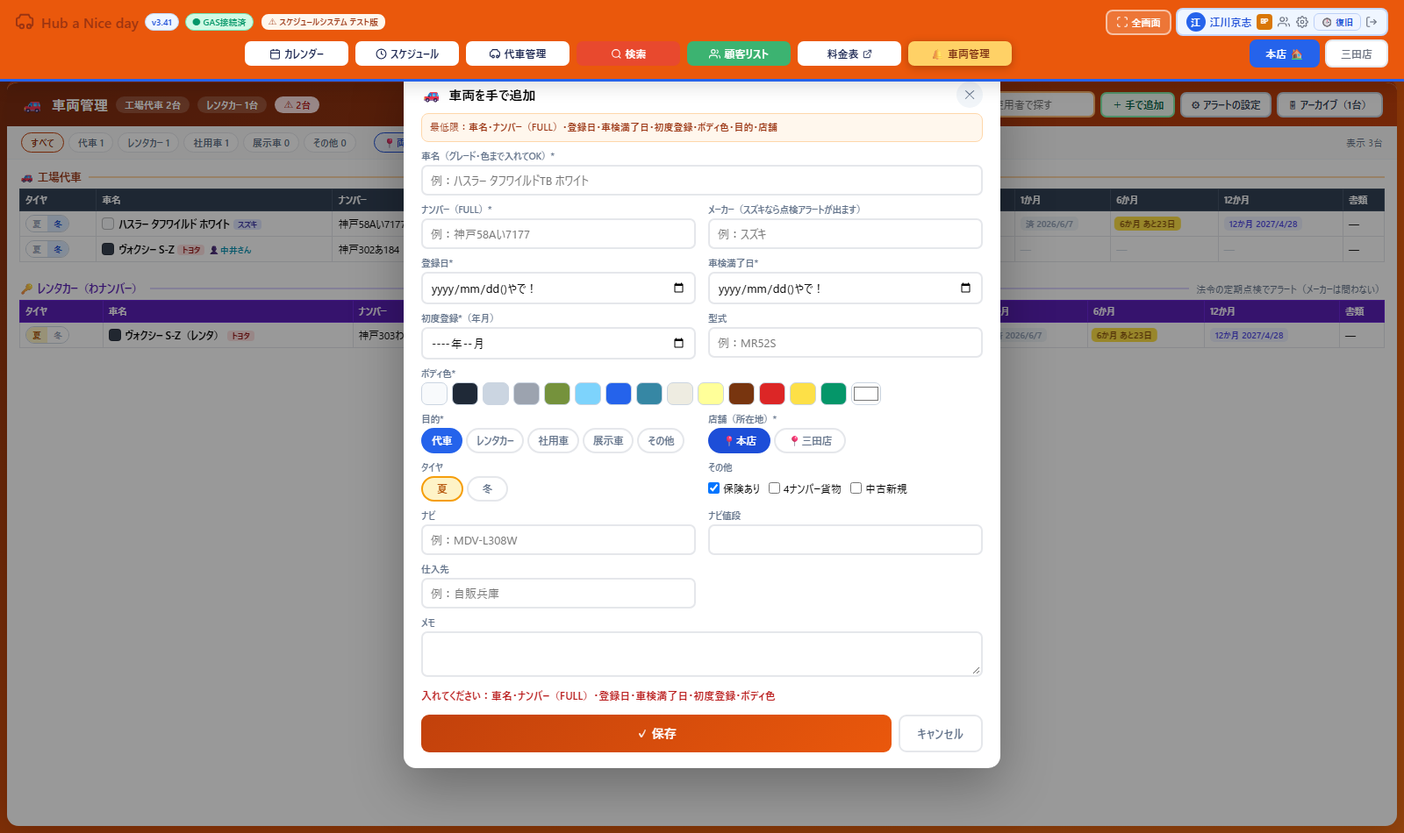
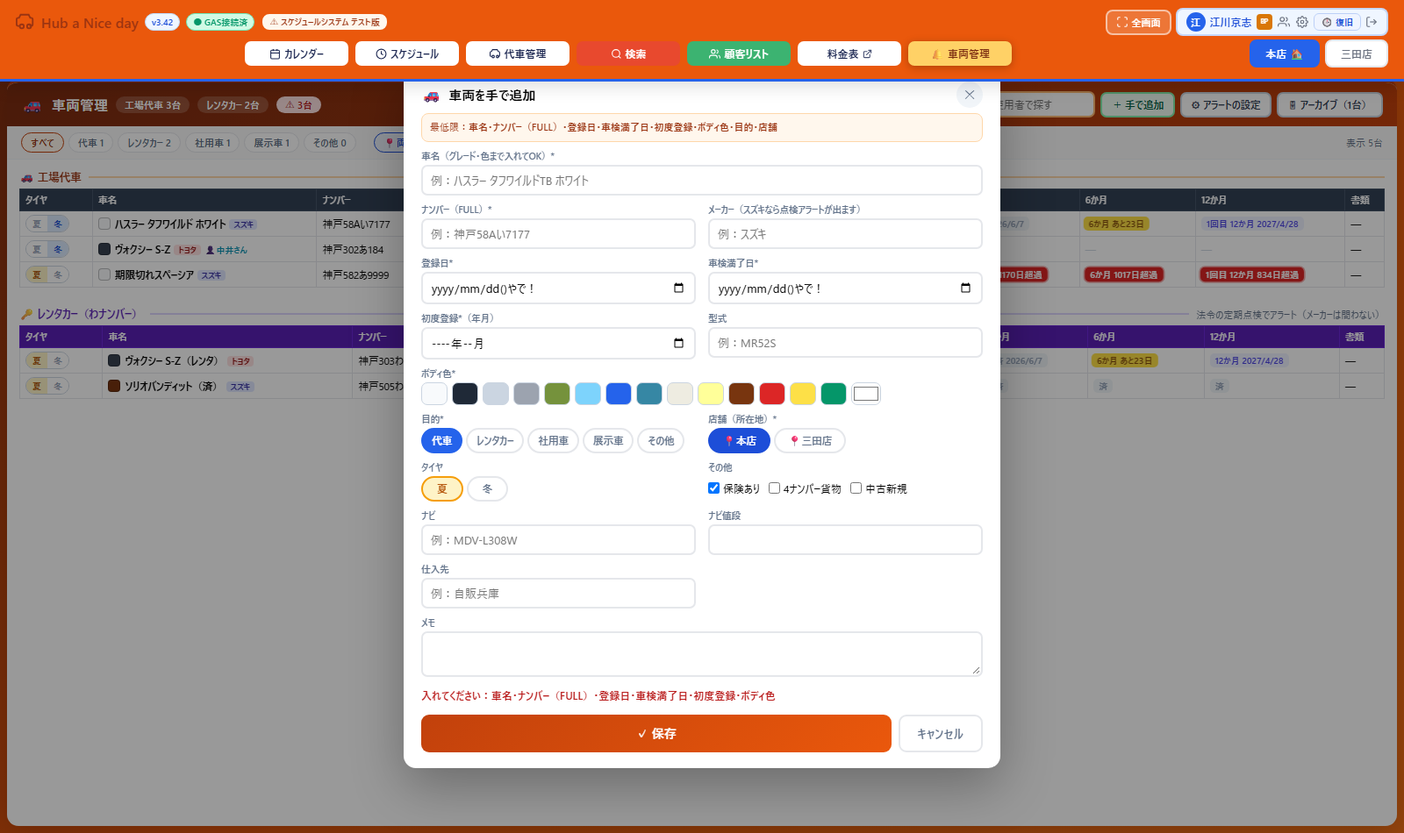
v3.43 車両管理v2の直し（ユーザー確認分）＋取り込みの不具合3件
画面：
- 車検満了の「○日超過」は出さない（残り日数のみ）。
- 保険の○×はセルの真ん中。×は濃い赤に白抜きで囲う。
- 点検は日付が分からない「済」も扱える（done:true）。
- 12か月点検は車検までに来る回数ぶん（乗用新車2回・4ナンバー1回）。
  「2回目」と表示し、済にすると次の回へ進む。
取り込み（fb_import_vehicles.js）：
- レンタカー区画の列ずれは7〜11だけだった（12=1か月・13=6か月がずれて
  タイヤ番号を点検日として取り込んでいた）。
- 先の日付は「予定」で未実施扱い（展示車の6か月点検が済に見えていた）。
- メーカーを車名・仕入先から推測（空だったためスズキ判定ができず、
  代車・展示車の点検アラートが出ていなかった）。
- 取り込み時のタイヤは全部「夏」。レンタカーは全台を点検済みで取り込む。
テスト版へ再取り込み済み（141台）。検査 vehicle_v2_test.js（29件）。

diff --git a/index_dev.html b/index_dev.html
@@ -22,7 +22,7 @@
     // 開きっぱなしのタブが旧コードのまま動き続けるのを防ぐ。画面復帰時と定期に自分自身を
     // no-store+クエリ付きで取得し、__APP_BUILD が変わっていれば「更新」バナーを表示する。
     // 本番デプロイ時は port_to_main.js が __APP_BUILD を自動更新する（手動更新不要）。
-    window.__APP_BUILD='build-1791174270769';
+    window.__APP_BUILD='build-1791176725089';
     (function(){
       var RUNNING=window.__APP_BUILD, shown=false, checking=false;
       function runningVer(){
@@ -123,7 +123,7 @@
 const { useState, useEffect, useLayoutEffect, useRef, useCallback, memo, useMemo } = React;
 
 // ★ バージョン管理：アップデートのたびにここだけ変更する
-const APP_VERSION = '3.42';
+const APP_VERSION = '3.43';
 // 本人認証を必須にするか。false の間は従来どおり名前を選ぶだけで入れる（移行期間）。
 //   false … 全員が今までどおり使える。端末の登録（＋スタッフを追加）は先にできる。
 //   true  … その端末で本人確認を済ませた人しかログイン画面に出ない。
@@ -8065,21 +8065,27 @@ const VehicleDetail=memo(({v,cfg,onChange,onClose,onDelete,linked,onLink})=>{
   const BOX={border:'1.5px solid #e5e7eb',borderRadius:9,padding:'9px 11px',background:'#fafafa',fontSize:12,lineHeight:1.9};
   const insRow=(kind,label)=>{
     const st=vehInspState(v,kind,cfg);
-    const done=kind==='m12'?((v.inspections&&Array.isArray(v.inspections.m12)&&v.inspections.m12[0]&&v.inspections.m12[0].doneAt)||''):((v.inspections&&v.inspections[kind]&&v.inspections[kind].doneAt)||'');
+    const rec=(v.inspections||{})[kind];
+    const done=kind==='m12'?(st.s==='done'):!!(rec&&(rec.done||rec.doneAt));
+    const doneTxt=kind==='m12'?(st.doneAt||''):((rec&&rec.doneAt)||'');
     const mark=()=>{
       const today=new Date().toISOString().slice(0,10);
       const ins={...(v.inspections||{})};
-      if(kind==='m12')ins.m12=[{due:st.due,doneAt:done?'':today}];
-      else ins[kind]={...(ins[kind]||{}),doneAt:done?'':today};
+      if(kind==='m12'){
+        const arr=Array.isArray(ins.m12)?[...ins.m12]:[];
+        if(done)arr.pop();                                   // 直前の回を取り消す
+        else arr.push({due:st.due,doneAt:today,done:true});  // 次の回を済にする
+        ins.m12=arr;
+      }else ins[kind]=done?{...(ins[kind]||{}),done:false,doneAt:''}:{...(ins[kind]||{}),done:true,doneAt:today};
       onChange({inspections:ins});
     };
     const col=st.s==='red'?{background:'#dc2626',color:'white'}:st.s==='yellow'?{background:'#fde047',color:'#854d0e'}:st.s==='done'?{background:'#f1f5f9',color:'#94a3b8'}:{background:'#eef2ff',color:'#4f46e5'};
     return(
       <div key={kind} style={{display:'flex',alignItems:'center',gap:8,padding:'5px 0',borderTop:'1px solid #f1f5f9'}}>
-        <span style={{width:74,fontWeight:700}}>{label}</span>
+        <span style={{width:74,fontWeight:700}}>{label}{(kind==='m12'&&st.rounds>1)?<span style={{fontSize:10,color:'#64748b'}}> {Math.min(st.round,st.rounds)}回目/{st.rounds}</span>:null}</span>
         <span style={{color:'#64748b'}}>{vehFmt(st.due)}</span>
         {vehAlertOn(v)&&st.s!=='none'&&<span style={{fontSize:10,fontWeight:800,borderRadius:5,padding:'1px 7px',...col}}>
-          {st.s==='done'?('済 '+vehFmt(done)):st.s==='red'?(st.left<0?Math.abs(st.left)+'日超過':'急ぎ'):st.s==='yellow'?('あと'+st.left+'日'):'予定'}</span>}
+          {st.s==='done'?('済'+(doneTxt?' '+vehFmt(doneTxt):'')):st.s==='red'?(st.left<0?Math.abs(st.left)+'日超過':'急ぎ'):st.s==='yellow'?('あと'+st.left+'日'):'予定'}</span>}
         <button onClick={mark} style={{marginLeft:'auto',padding:'3px 10px',borderRadius:7,fontSize:10.5,fontWeight:800,cursor:'pointer',border:'1.5px solid '+(done?'#fca5a5':'#86efac'),background:done?'#fef2f2':'#f0fdf4',color:done?'#b91c1c':'#065f46'}}>{done?'済を取り消す':'実施した'}</button>
       </div>
     );
@@ -8113,7 +8119,7 @@ const VehicleDetail=memo(({v,cfg,onChange,onClose,onDelete,linked,onLink})=>{
         <div style={{display:'flex',alignItems:'center',gap:8,padding:'5px 0',borderTop:'1px solid #f1f5f9'}}>
           <span style={{width:74,fontWeight:700}}>車検満了</span>
           <span style={{color:ex.s==='red'?'#b91c1c':ex.s==='yellow'?'#d97706':'#047857',fontWeight:700}}>{vehFmt(v.expiry)}</span>
-          {ex.left!=null&&<span style={{fontSize:11,color:'#64748b'}}>{ex.left<0?Math.abs(ex.left)+'日超過':'あと'+ex.left+'日'}</span>}
+          {(ex.left!=null&&ex.left>=0)&&<span style={{fontSize:11,color:'#64748b'}}>あと{ex.left}日</span>}
         </div>
       </div>
       <div style={{fontSize:10.5,color:'#92400e',background:'#fffbeb',border:'1px solid #fde68a',borderRadius:7,padding:'6px 9px',marginTop:6,lineHeight:1.7}}>
@@ -8133,7 +8139,7 @@ const VehicleDetail=memo(({v,cfg,onChange,onClose,onDelete,linked,onLink})=>{
 
       <div style={LB}>その他</div>
       <div style={BOX}>
-        保険 {v.insurance?<span style={{color:'#047857',fontWeight:800}}>○</span>:<span style={{color:'#b91c1c',fontWeight:800}}>×</span>}
+        保険 {v.insurance?<span style={{color:'#047857',fontWeight:800}}>○</span>:<span style={{display:'inline-flex',alignItems:'center',justifyContent:'center',width:20,height:18,background:'#dc2626',color:'white',fontWeight:900,borderRadius:5}}>×</span>}
         　/　ナビ {v.nav||'無し'}{v.navYen?'（'+v.navYen+'）':''}<br/>
         仕入先 {v.supplier||'—'}　/　初度 {vehFmt(v.firstReg)}　/　登録 {vehFmt(v.regDate)}<br/>
         {v.model&&<>型式 {v.model}　</>}{v.cargo4?'4ナンバー貨物':''}
@@ -8234,7 +8240,10 @@ const VehicleView2=memo(({rows,setRows,loanerH,loanerS,rentalList,onSaveLoanerH,
     const st=vehInspState(v,kind,cfg);
     const nm=kind==='m1'?'1か月':kind==='m6'?'6か月':'12か月';
     if(st.s==='none')return <span style={{color:'#cbd5e1'}}>—</span>;
-    const txt=st.s==='done'?('済 '+vehFmt(st.doneAt)):st.s==='red'?(nm+' '+(st.left<0?Math.abs(st.left)+'日超過':'急ぎ')):st.s==='yellow'?(nm+' あと'+st.left+'日'):(nm+' '+vehFmt(st.due));
+    const rd=(kind==='m12'&&st.rounds>1)?(st.round+'回目 '):'';
+    const txt=st.s==='done'?('済'+(st.doneAt?' '+vehFmt(st.doneAt):'')):
+      st.s==='red'?(rd+nm+' '+(st.left<0?Math.abs(st.left)+'日超過':'急ぎ')):
+      st.s==='yellow'?(rd+nm+' あと'+st.left+'日'):(rd+nm+' '+vehFmt(st.due));
     return <span style={{display:'inline-block',fontSize:10,fontWeight:800,borderRadius:5,padding:'1px 6px',...insStyle(st.s)}}>{txt}</span>;
   };
   const Row=({v,rental})=>{
@@ -8255,12 +8264,14 @@ const VehicleView2=memo(({rows,setRows,loanerH,loanerS,rentalList,onSaveLoanerH,
           {v.user&&<span style={{marginLeft:4,fontSize:10,color:'#0891b2',fontWeight:700}}>👤{v.user}</span>}
         </td>
         <td style={TD2}>{v.num||'—'}</td>
-        <td style={TD2}>{v.insurance?<span style={{color:'#047857',fontWeight:800}}>○</span>:<span style={{color:'#b91c1c',fontWeight:800,background:'#fee2e2',borderRadius:4,padding:'0 5px'}}>×</span>}</td>
+        <td style={{...TD2,textAlign:'center'}}>{v.insurance
+          ?<span style={{display:'inline-flex',alignItems:'center',justifyContent:'center',width:22,height:20,color:'#047857',fontWeight:900,fontSize:13}}>○</span>
+          :<span style={{display:'inline-flex',alignItems:'center',justifyContent:'center',width:22,height:20,background:'#dc2626',color:'white',fontWeight:900,fontSize:13,borderRadius:5}}>×</span>}</td>
         <td style={TD2}><span style={{display:'inline-block',fontSize:10,fontWeight:800,borderRadius:20,padding:'1px 7px',color:'white',background:p.color}}>{p.label}</span></td>
         <td style={{...TD2,maxWidth:150,overflow:'hidden',textOverflow:'ellipsis'}}>{v.nav||<span style={{color:'#b91c1c',fontWeight:800,background:'#fee2e2',borderRadius:4,padding:'0 5px'}}>無し</span>}</td>
         {!rental&&<td style={TD2}>{v.navYen||'—'}</td>}
         <td style={{...TD2,color:ex.s==='red'?'#b91c1c':ex.s==='yellow'?'#d97706':'#047857',fontWeight:700}}>
-          {vehFmt(v.expiry)}{ex.left!=null&&<span style={{fontSize:10,fontWeight:600,marginLeft:4}}>{ex.left<0?Math.abs(ex.left)+'日超過':'あと'+ex.left+'日'}</span>}
+          {vehFmt(v.expiry)}{(ex.left!=null&&ex.left>=0)&&<span style={{fontSize:10,fontWeight:600,marginLeft:4}}>あと{ex.left}日</span>}
         </td>
         <td style={TD2}>{v.supplier||'—'}</td>
         <td style={TD2}>{vehFmt(v.firstReg)}</td>
@@ -8390,30 +8401,58 @@ const vehDays=(iso)=>{ if(!iso)return null; const p=String(iso).split('-').map(N
   return Math.ceil((d-t)/86400000); };
 const vehAddMonths=(iso,m)=>{ if(!iso)return ''; const p=String(iso).split('-').map(Number); if(!p[0])return '';
   const d=new Date(p[0],(p[1]||1)-1+m,p[2]||1); return d.getFullYear()+'-'+String(d.getMonth()+1).padStart(2,'0')+'-'+String(d.getDate()).padStart(2,'0'); };
+// 12か月点検は車検までに何回か来る（新車の乗用なら1年後・2年後の2回／4ナンバー貨物は1回）。
+//   済んだ数を数えて「次に来る回」を出す。車検満了を過ぎる回は出さない。
+//   ★中古新規は車検満了日から1年ずつ遡って置く（初度登録とずれるため）
+const vehM12List=(v)=>{
+  const out=[];
+  if(v.usedNew&&v.expiry){
+    for(let i=1;i<=3;i++){ const d=vehAddMonths(v.expiry,-12*i); if(!d)break;
+      if(v.regDate&&d<v.regDate)break; if(v.firstReg&&d<v.firstReg+'-01')break; out.unshift(d); }
+    return out;
+  }
+  const base=v.regDate||(v.firstReg?v.firstReg+'-01':'');
+  if(!base)return out;
+  for(let i=1;i<=3;i++){ const d=vehAddMonths(base,12*i); if(!d)break;
+    if(v.expiry&&d>=v.expiry)break; out.push(d); }
+  return out;
+};
+const vehM12Done=(v)=>{const a=(v.inspections||{}).m12;return Array.isArray(a)?a.filter(x=>x&&(x.done||x.doneAt)).length:0;};
 // 点検の期日：新車は登録日（無ければ初度登録）から。中古新規は車検満了日から逆算
 const vehInspDue=(v,kind)=>{
-  const base=v.regDate||v.firstReg||'';
+  const base=v.regDate||(v.firstReg?v.firstReg+'-01':'');
   if(kind==='m1')return v.usedNew?'':vehAddMonths(base,1);
   if(kind==='m6')return v.usedNew?'':vehAddMonths(base,6);
-  // 12か月：中古新規は満了日から1年ごとに遡る。新車は登録から1年ごと
-  if(v.usedNew&&v.expiry)return vehAddMonths(v.expiry,-12);
-  return vehAddMonths(base,12);
+  const list=vehM12List(v);
+  return list[Math.min(vehM12Done(v),list.length-1)]||'';
 };
 // 状態：done／plan（まだ先）／yellow（そろそろ）／red（急ぎ・超過）
 const vehInspState=(v,kind,cfg)=>{
   const c=vehAlertCfg(cfg);
   const rec=(v.inspections||{})[kind];
-  const doneAt=kind==='m12'?((Array.isArray(rec)&&rec[0]&&rec[0].doneAt)||''):((rec&&rec.doneAt)||'');
+  // ★日付が分からない「済」も扱う（done:true）。12か月は「何回済んだか」で見る
+  let done=false,doneAt='';
+  if(kind==='m12'){
+    const list=vehM12List(v), n=vehM12Done(v);
+    done=list.length>0&&n>=list.length;                       // 全部済んだ
+    const last=Array.isArray(rec)?rec[n-1]:null;
+    doneAt=(last&&last.doneAt)||'';
+  }else{
+    done=!!(rec&&(rec.done||rec.doneAt));
+    doneAt=(rec&&rec.doneAt)||'';
+  }
   const due=vehInspDue(v,kind);
-  if(!due)return{s:'none',due:'',left:null};
-  if(doneAt)return{s:'done',due,left:null,doneAt};
+  const round=kind==='m12'?(vehM12Done(v)+1):0;
+  const rounds=kind==='m12'?vehM12List(v).length:0;
+  if(done)return{s:'done',due,left:null,doneAt,round,rounds};
+  if(!due)return{s:'none',due:'',left:null,round,rounds};
   const left=vehDays(due);
   const y=kind==='m1'?c.y1:kind==='m6'?c.y6:c.y12;
   const r=kind==='m1'?c.r1:kind==='m6'?c.r6:c.r12;
-  if(left==null)return{s:'none',due,left:null};
-  if(left<=-r)return{s:'red',due,left};
-  if(left<=y)return{s:'yellow',due,left};
-  return{s:'plan',due,left};
+  if(left==null)return{s:'none',due,left:null,round,rounds};
+  if(left<=-r)return{s:'red',due,left,round,rounds};
+  if(left<=y)return{s:'yellow',due,left,round,rounds};
+  return{s:'plan',due,left,round,rounds};
 };
 const vehExpiryState=(v,cfg)=>{
   const c=vehAlertCfg(cfg); const left=vehDays(v.expiry);

diff --git a/fb_import_vehicles.js b/fb_import_vehicles.js
@@ -49,14 +49,29 @@ const jp2iso = (s) => {
   return d ? `${y}-${mo}-${d}` : `${y}-${mo}`;
 };
 // 1か月・6か月の実施日（3/3/22 や 2026/2/29 や「やり忘れ」）
+//   ★先の日付（今日より後）は「予定」であって実施済みではない（2026-10-05 ユーザー指摘）
+const TODAY = new Date().toISOString().slice(0, 10);
+const asDone = (iso) => iso > TODAY ? { doneAt: '', planAt: iso, note: '' } : { doneAt: iso, note: '' };
 const doneOf = (s) => {
   const t = String(s || '').trim();
   if (!t || /やり忘れ|無し|貨物/.test(t)) return { doneAt: '', note: t };
   let m = t.match(/^(\d{1,2})\/(\d{1,2})\/(\d{2,4})$/);
-  if (m) { const y = Number(m[3]) < 100 ? 2000 + Number(m[3]) : Number(m[3]); return { doneAt: `${y}-${String(+m[1]).padStart(2, '0')}-${String(+m[2]).padStart(2, '0')}`, note: '' }; }
+  if (m) { const y = Number(m[3]) < 100 ? 2000 + Number(m[3]) : Number(m[3]); return asDone(`${y}-${String(+m[1]).padStart(2, '0')}-${String(+m[2]).padStart(2, '0')}`); }
   m = t.match(/^(\d{4})[.\/](\d{1,2})[.\/](\d{1,2})$/);
-  if (m) return { doneAt: `${m[1]}-${String(+m[2]).padStart(2, '0')}-${String(+m[3]).padStart(2, '0')}`, note: '' };
+  if (m) return asDone(`${m[1]}-${String(+m[2]).padStart(2, '0')}-${String(+m[3]).padStart(2, '0')}`);
   return { doneAt: '', note: t };
+};
+// メーカー（スズキ車かどうかで点検アラートの有無が変わる）。車名と仕入先から推測し、画面で直せる
+const SUZUKI_RE = /ハスラー|スペーシア|スペカス|スぺカス|アルト|ラパン|ワゴン|ジムニ|ソリオ|バンディット|スイフト|スイスポ|エブリィ|クロスビー|スマイル|ギア|シエラ|ノマド|キャリイ|エスクード/;
+const TOYOTA_RE = /ヴォクシー|ノア|ライズ|アクア|プリウス|ハイエース|カローラ|ヤリス|シエンタ|フォレスター/;
+const makerOf = (name, supplier) => {
+  const t = String(name || '');
+  if (SUZUKI_RE.test(t)) return 'スズキ';
+  if (TOYOTA_RE.test(t)) return /フォレスター/.test(t) ? 'スバル' : 'トヨタ';
+  const sp = String(supplier || '');
+  if (/自販兵庫|スズキ/.test(sp)) return 'スズキ';
+  if (/ネッツ|トヨペット/.test(sp)) return 'トヨタ';
+  return '';
 };
 const plate4 = num => { const m = String(num || '').match(/(\d{1,4})(?!.*\d)/); return m ? m[1] : ''; };
 // 4ナンバー（貨物）かどうか：分類番号の頭が4
@@ -94,7 +109,8 @@ const is4 = num => /[^\d](4\d{2}|4\d|4)[あ-ん]/.test(String(num || '')) || /\s
     const at = (c) => cellFill[XLSX.utils.encode_col(c) + (i + 1)] || '';
     // レンタカーの区画は「ナビ値段」が無く、以降が1つ左へずれる
     const shift = group === 'rental' ? -1 : 0;
-    const col = n => String(r[n + (n >= 7 ? shift : 0)] || '').trim();
+    // ★レンタカーの区画でずれるのは 7〜11 だけ。12（1か月）・13（6か月）は同じ位置（2026-10-05 修正）
+    const col = n => String(r[n + ((n >= 7 && n <= 11) ? shift : 0)] || '').trim();
     const navYen = group === 'rental' ? '' : String(r[7] || '').trim();
     const expiryRaw = col(8), supplier = col(9), firstRaw = col(10), extra = col(11);
     const m1 = doneOf(col(12)), m6 = doneOf(col(13));
@@ -110,16 +126,19 @@ const is4 = num => /[^\d](4\d{2}|4\d|4)[あ-ん]/.test(String(num || '')) || /\s
       purposeRaw: purposeTxt,
       user: userOf(purposeTxt),
       store: storeOf(purposeTxt, extra),
-      tire: /冬/.test(String(r[1] || '')) ? 'winter' : (/夏/.test(String(r[1] || '')) ? 'summer' : ''),
+      tire: 'summer',                       // ★読み込み時は全部「夏」でそろえる（2026-10-05 ユーザー指示）
       insurance: String(r[4] || '').trim() === '○',
       nav: col(6), navYen,
       supplier,
       firstReg: jp2iso(firstRaw) || firstRaw,
       expiry: jp2iso(expiryRaw) || '',
       expiryRaw,
-      maker: '', model: '', cargo4: is4(num),
+      maker: makerOf(name, supplier), model: '', cargo4: is4(num),
       usedNew: false,
-      inspections: { m1, m6, m12: [] },
+      // ★レンタカーは現在すべて点検済み（日付は分からないので「済」だけ付ける。2026-10-05 ユーザー指示）
+      inspections: group === 'rental'
+        ? { m1: { done: true, doneAt: m1.doneAt || '' }, m6: { done: true, doneAt: m6.doneAt || '' }, m12: [{ done: true, doneAt: '' }] }
+        : { m1, m6, m12: [] },
       docs: [],
       note: [extra && !/三田|八多|北神|ハ多/.test(extra) ? extra : '', m1.note, m6.note].filter(Boolean).join(' / '),
       archived, archivedAt: archived ? '2026-10-05' : '',

diff --git a/vehicle_v2_test.js b/vehicle_v2_test.js
@@ -51,6 +51,16 @@ const minus = n => plus(-n);
     { id: 'v3', group: 'rental', name: 'ヴォクシー S-Z（レンタ）', num: '神戸303わ3869', plate4: '3869', maker: 'トヨタ',
       colorHex: '#374151', purpose: 'rental', store: 'honten', tire: 'summer', insurance: true,
       regDate: minus(160), firstReg: minus(160).slice(0, 7), expiry: plus(500), inspections: { m1: { doneAt: minus(120) }, m6: {}, m12: [] }, archived: false },
+    // 日付なしで「済」になっているレンタカー（＝レンタカーは全部点検済み）
+    { id: 'v5', group: 'rental', name: 'ソリオバンディット（済）', num: '神戸505わ4230', plate4: '4230', maker: 'スズキ',
+      colorHex: '#78350f', purpose: 'rental', store: 'honten', tire: 'summer', insurance: true,
+      regDate: minus(400), firstReg: minus(400).slice(0,7), expiry: plus(300),
+      inspections: { m1:{done:true,doneAt:''}, m6:{done:true,doneAt:''}, m12:[{done:true,doneAt:''}] }, archived:false },
+    // 車検が切れている車（「○日超過」を出さないこと）
+    { id: 'v6', group: 'factory', name: '期限切れスペーシア', num: '神戸582あ9999', plate4: '9999', maker: 'スズキ',
+      colorHex: '#f8fafc', purpose: 'exhibit', store: 'honten', tire: 'summer', insurance: false,
+      regDate: minus(1200), firstReg: minus(1200).slice(0,7), expiry: minus(30),
+      inspections: { m1:{}, m6:{}, m12:[] }, archived:false },
     // 売却済み＝アーカイブ
     { id: 'v4', group: 'factory', name: 'ハスラー Jスタ カーキ（売却済）', num: '神戸582は3182', plate4: '3182', maker: 'スズキ',
       colorHex: '', purpose: 'loaner', store: 'honten', tire: 'summer', insurance: false,
@@ -156,6 +166,21 @@ const minus = n => plus(-n);
     const m = (document.body.innerText.match(/入れてください：([^\n]*)/) || [])[1] || '';
     return ['車名', 'ナンバー（FULL）', '登録日', '車検満了日', '初度登録', 'ボディ色'].every(x => m.includes(x));
   }));
+  head('⑧ 直した所（2026-10-05 ユーザー指摘）');
+  // 車検満期は8列目（タイヤ・車名・ナンバー・保険・目的・ナビ・ナビ値段・車検満期）
+  const cellOf=(name,i)=>page.evaluate(([n,k])=>{const r=[...document.querySelectorAll('tr')].find(x=>x.innerText.includes(n));if(!r)return'';const td=r.querySelectorAll('td')[k];return td?td.innerText.replace(/s+/g,' ').trim():'';},[name,i]);
+  const expRow = await cellOf('期限切れスペーシア',7);
+  t('★車検満了の「○日超過」は出さない', !/日超過/.test(expRow), expRow);
+  const insCell = await page.evaluate(() => { const r=[...document.querySelectorAll('tr')].find(x=>x.innerText.includes('期限切れスペーシア')); if(!r)return null;
+    const sp=[...r.querySelectorAll('span')].find(e=>e.innerText.trim()==='×'); if(!sp)return null; const st=getComputedStyle(sp); const td=sp.closest('td');
+    return {bg:st.backgroundColor,color:st.color,align:getComputedStyle(td).textAlign}; });
+  t('★保険×は濃い赤で囲う', !!insCell && insCell.bg === 'rgb(220, 38, 38)' && insCell.color === 'rgb(255, 255, 255)', insCell);
+  t('★保険の欄は中央', !!insCell && insCell.align === 'center', insCell);
+  // レンタカーの表は『ナビ値段』が無いので点検は10・11・12列目
+  const rentalDone = [await cellOf('ソリオバンディット（済）',10),await cellOf('ソリオバンディット（済）',11),await cellOf('ソリオバンディット（済）',12)].join(' / ');
+  t('★日付が無くても「済」と出る', /済/.test(rentalDone) && !/あと|急ぎ|超過/.test(rentalDone), rentalDone);
+  t('★12か月は「○回目」が出る', await page.evaluate(() => /回目/.test(document.body.innerText)));
+
   t('JSエラーなし', errs.length === 0, errs.slice(0, 3));
 
   await page.screenshot({ path: path.join(DIR, 'smoke-vehicle-v2.png') });

diff --git a/mobile.html b/mobile.html
@@ -17,7 +17,7 @@
   // 画面復帰時と定期に自分自身をno-storeで取得し、__APP_BUILDが変わっていれば更新バナーを表示する。
   // タップ時は cache:'reload' で新HTMLをHTTPキャッシュへ焼き直してから reload するので、確実に新版になる
   // （アプリを消したりURLを打ち直す必要はない）。本番デプロイ時は port_to_main.js が __APP_BUILD を自動更新する。
-  window.__APP_BUILD='build-1791174270769';
+  window.__APP_BUILD='build-1791176725089';
   (function(){
     var RUNNING=window.__APP_BUILD, shown=false, checking=false;
     function runningVer(){
@@ -92,7 +92,7 @@ input,select,textarea{font-family:inherit;font-size:16px !important;}
 <script id="app-jsx" type="text/plain">
 const {useState,useEffect,useCallback,useMemo,useRef,memo}=React;
 // ★ バージョン管理：システム全体で1つ。変更のたびにindex_dev.htmlのAPP_VERSIONと同値で0.01上げる
-const MOBILE_VERSION='3.42';
+const MOBILE_VERSION='3.43';
 // ★画面の色（環境の見分け）：テスト版＝オレンジ／メイン＝青。PC（index）と同じ決まり。
 //   この4つだけを port_to_main.js が本番用に書き換えるので、色は必ずここを使うこと。
 const UI_BG='#FF9500';                                               // ログイン・登録・引き継ぎ画面の背景（べた塗り）

diff --git a/customers.html b/customers.html
@@ -20,7 +20,7 @@
   // 開きっぱなしのタブが旧コードのまま動き続けるのを防ぐ。画面復帰時と定期に自分自身を
   // no-store+クエリ付きで取得し、__APP_BUILD が変わっていれば「更新」バナーを表示する。
   // 本番デプロイ時は port_to_main.js が __APP_BUILD を自動更新する（手動更新不要）。
-  window.__APP_BUILD='build-1791174270769';
+  window.__APP_BUILD='build-1791176725089';
   (function(){
     var RUNNING=window.__APP_BUILD, shown=false, checking=false;
     function runningVer(){
@@ -141,7 +141,7 @@ const hubRenew = async name => {};
 // index側の全画面オーバーレイ（iframe）内で開かれているか。埋め込み時は
 // 「スケジュールに戻る」がページ遷移ではなく親へのpostMessage（オーバーレイ閉鎖）になる。
 const IS_EMBED=(()=>{try{return window.self!==window.top;}catch(e){return true;}})();
-const APP_VERSION='3.42'; // 表示用バージョン。更新ごとに上げる（軽微+0.01／大型は整数を上げる）。index_dev.htmlと揃える
+const APP_VERSION='3.43'; // 表示用バージョン。更新ごとに上げる（軽微+0.01／大型は整数を上げる）。index_dev.htmlと揃える
 const storKey=(base,sid)=>`${STOR}${sid}-${base}`;
 const CHUNK_SIZE=100;
 // ファイル名をGASキーに使える形に変換

diff --git a/CLAUDE.md b/CLAUDE.md
@@ -88,7 +88,14 @@ This file provides guidance to Claude Code (claude.ai/code) when working with co
 - 手で追加する時の**最低限**：車名・ナンバー(FULL)・登録日・車検満了日・初度登録・ボディ色・目的・店舗（足りないと保存できない）。
 - 代車管理とのリンク：ナンバー下4桁で照合し、ボタンで代車管理の表へ入れる／内容を更新する。
 - **まだ入れていないもの**：車検証（PDF・写真）の読み込みと保存（Firestore に分割して入れる方針）。車検証の2次元コードから自動入力。
-- 検査は `node vehicle_v2_test.js`（24件）。
+- 直し（v3.43・2026-10-05 ユーザー確認）：
+  ・**車検満了の「○日超過」は出さない**（残り日数だけ）。点検の超過は今までどおり出す。
+  ・保険の○×は**セルの真ん中**。×は**濃い赤（#dc2626）に白抜き**で囲う。
+  ・**取り込み時のタイヤは全部「夏」**。
+  ・点検は**日付が分からない「済」**も扱える（`{done:true,doneAt:''}`）。**レンタカーは全台を済**にして取り込む。
+  ・**12か月点検は車検までに来る回数ぶん**（新車の乗用なら2回・4ナンバーは1回）。`vehM12List` が回を作り、「2回目」と出す。済にすると次の回へ進む。
+  ・取り込みの直し：**レンタカー区画でずれるのは7〜11列だけ**（12=1か月・13=6か月はずれない）／**先の日付は「予定」**で未実施扱い／**メーカーを車名と仕入先から推測**（スズキ車の判定に必要）。
+- 検査は `node vehicle_v2_test.js`（29件）。
 
 ### 本番のデータをテスト版へ写す（開発用・2026-10-05）
 - `node fb_copy_prod_to_dev.js`（下見）／`--write`（実行）。**向きは本番→テスト版の一方通行**。書き先が `hub-v8-dev-` で始まらなければ止まる（逆向きはできない作り）。
